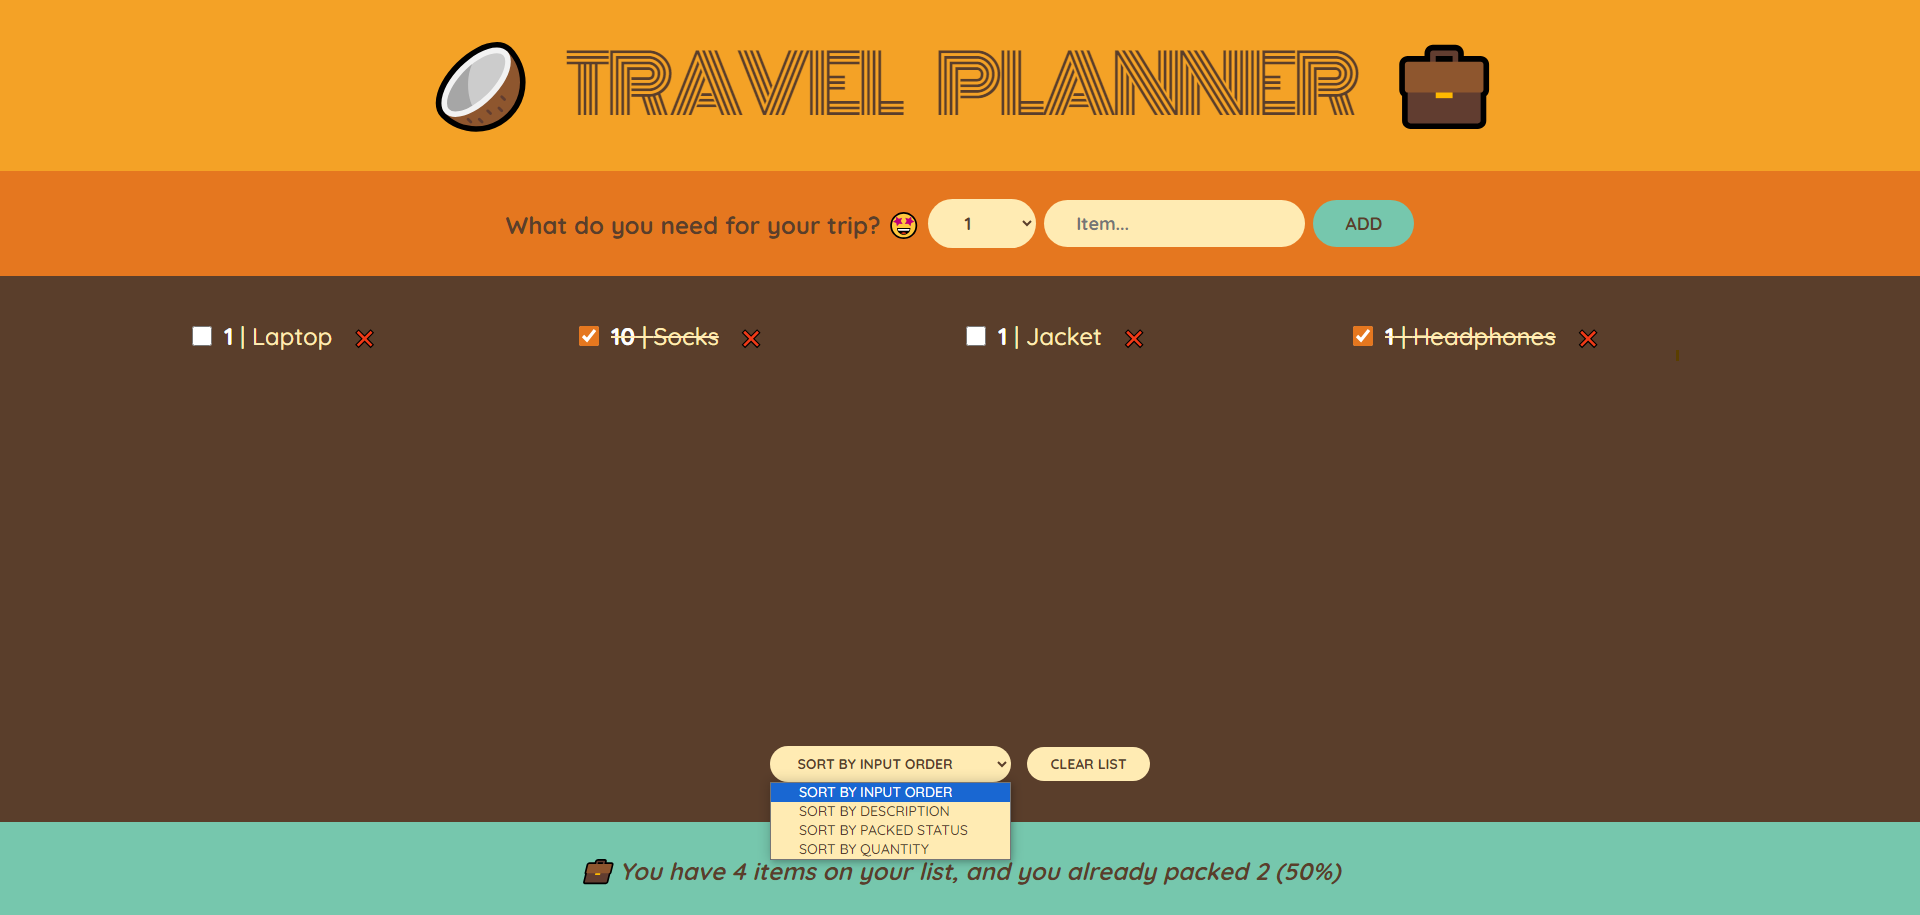
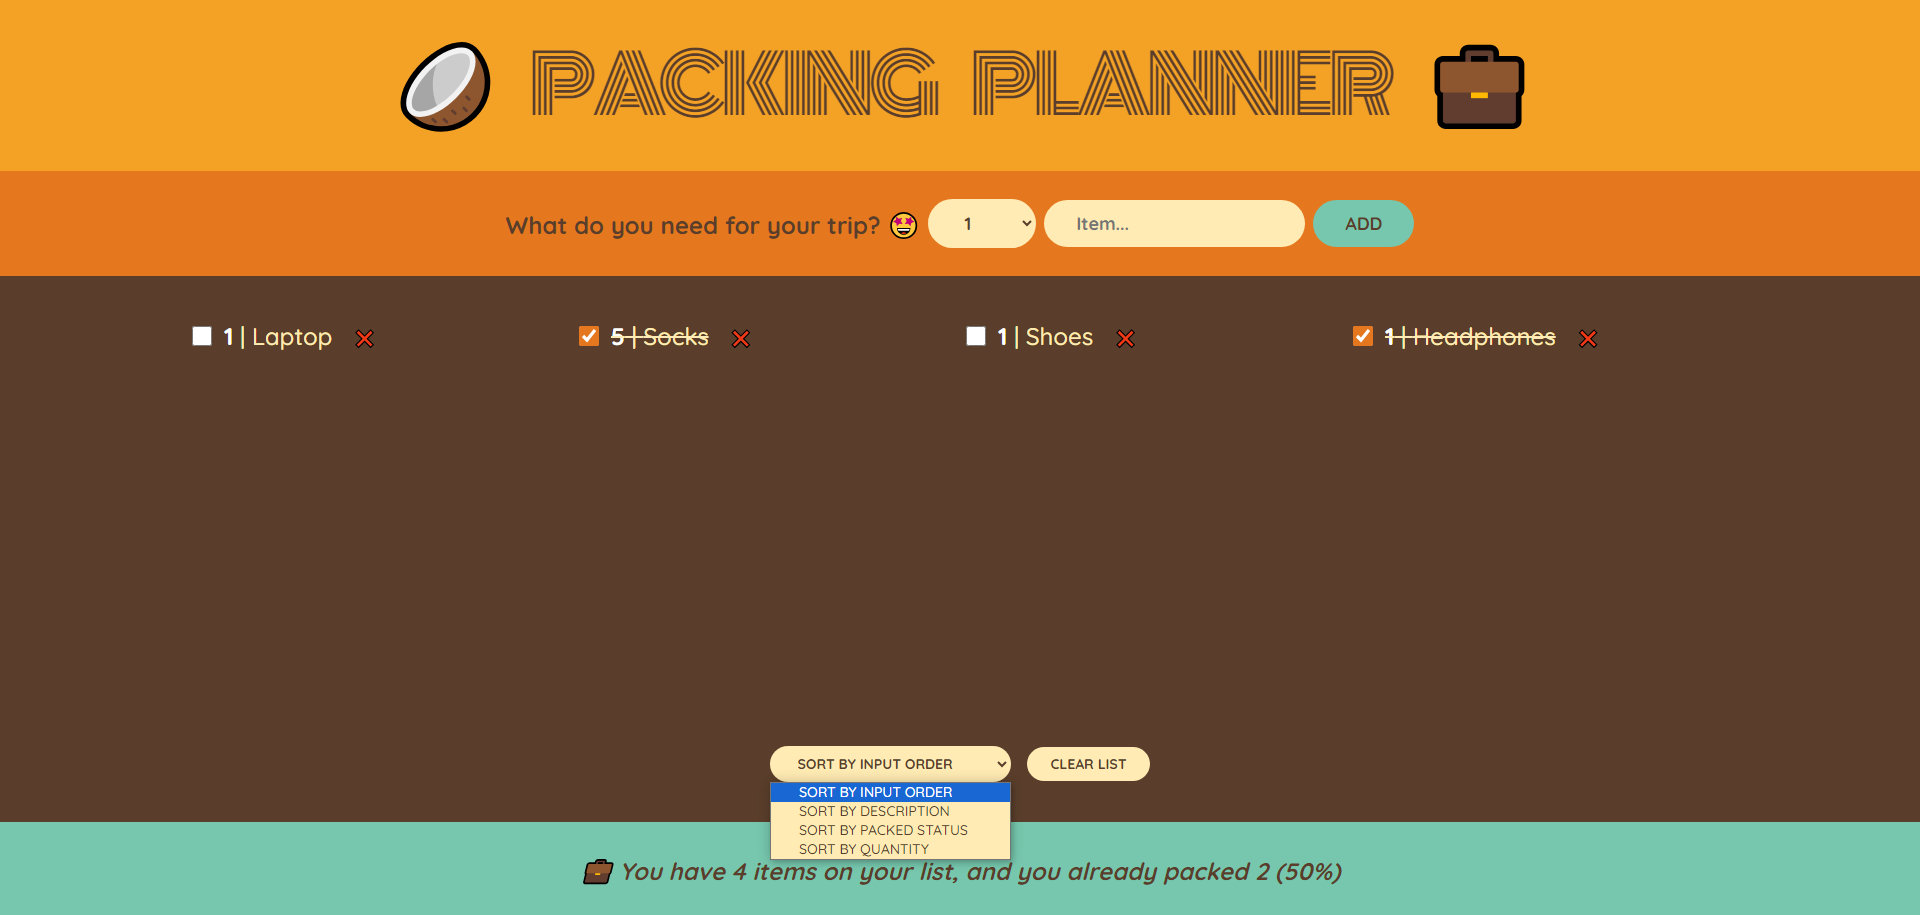
Change screenshot and project name

Changed region(s): [[0.1875, 0.0306, 0.8125, 0.153], [0.3125, 0.3366, 0.4062, 0.3978], [0.5312, 0.3366, 0.5938, 0.3978]]

diff --git a/src/components/Logo.js b/src/components/Logo.js
@@ -1,3 +1,3 @@
 export default function Logo() {
-  return <h1>🥥 Travel Planner 💼</h1>;
+  return <h1>🥥 Packing Planner 💼</h1>;
 }
